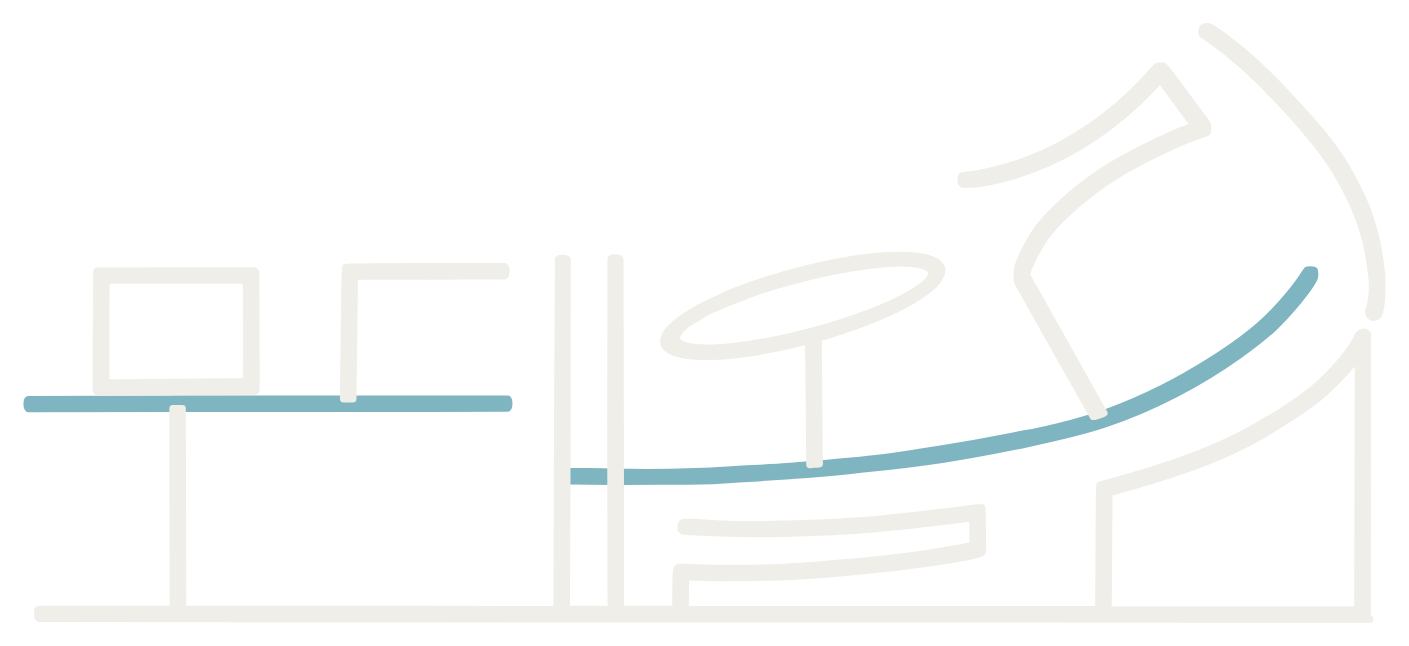
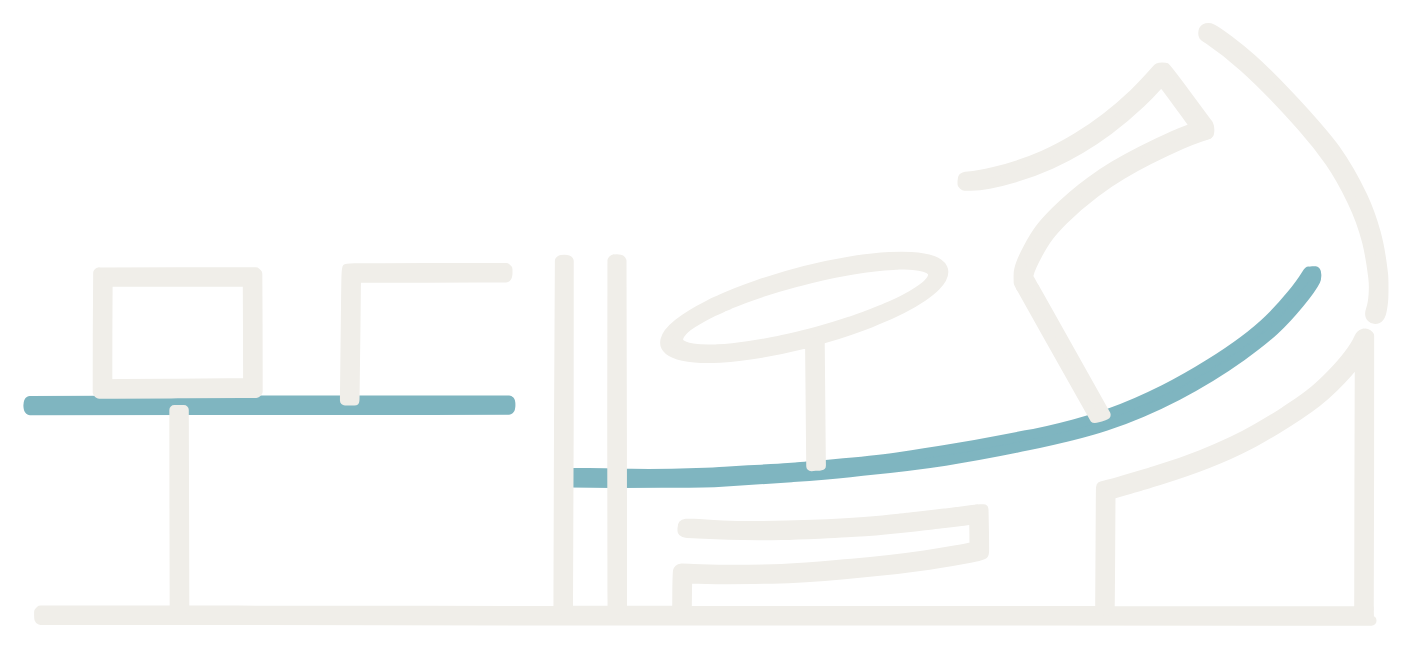
무대올림 로고 획을 20으로 — 실사용 17·20 비교 후 사장님 결정
wm-muol-v4.png를 획 10 → 20px(1400폭 기준) 판으로 바꾼다. 형태·배색·투명도(0.8)는 그대로.

diff --git a/src/app/page.tsx b/src/app/page.tsx
@@ -9,7 +9,7 @@ import LegalStrip from "@/components/LegalStrip";
  *   - 시우스   = 밝은 화이트톤 + SYUS 붓터치색 유지, 뒷배경에 Afterimage 사진 워터마크
  *   - 지붕 배지 밑 흰색 슬로건이 안 보이던 문제 → 슬로건 제거(배지에 로고+이름만)
  *   - "관람료 없이" 등 관객 대상 단언 문구 제외(학과가 관람료를 받을 여지)
- * 워터마크: /wm-muol-v4.png(한글 로고타입 + 확정 배색, 2026-10-28 획 10→17), /wm-syus-v3.png(알파 누끼 — 배경 무관).
+ * 워터마크: /wm-muol-v4.png(한글 로고타입 + 확정 배색, 2026-10-29 획 10→20), /wm-syus-v3.png(알파 누끼 — 배경 무관).
  *
  * 안전: 서버 컴포넌트 + CSS group-hover만(클라이언트 JS 0), 레이어 pointer-events:none. reduced-motion 존중.
  * metadata는 루트 layout.tsx(사유유사)가 제공.
@@ -209,9 +209,10 @@ export default function GatewayPage() {
              있어, 이미지 위치와 글자가 보이는 위치가 다르다는 점에 주의.
              60svh는 화면이 낮을 때만 작동하는 안전장치(1080p·1440p에선 760px 유지). */
           /* 2026-10-28 사장님: 로고 획을 키워 첫 시야에 먼저 들어오게.
-             v4 = v3과 같은 SVG 원본에 같은 색 외곽선을 덧입혀 획만 10 → 17px(1400폭 기준) 굵힌 판.
-             20부터는 「대」의 두 기둥·「올」의 ㄹ 안쪽 틈이 좁아져 17에서 멈췄다.
-             원본: Content_Report/output/design/갈림길_무대올림_최종후보_2026-10-28/시공재료/wm-muol-t17.svg */
+             v4 = v3과 같은 SVG 원본에 같은 색 외곽선을 덧입혀 획만 10 → 20px(1400폭 기준) 굵힌 판.
+             디자인팀 권장은 17(20부터 「대」의 두 기둥·「올」의 ㄹ 안쪽 틈이 좁아진다)이었으나,
+             실사용 화면 17·20 비교 후 사장님이 존재감이 더 큰 20으로 결정(2026-10-29).
+             원본: Content_Report/output/design/갈림길_무대올림_최종후보_2026-10-28/시공재료/wm-muol-t20.svg */
           background: url('/wm-muol-v4.png') no-repeat center 28%;
           background-size: min(88%, 760px, 60svh) auto;
           opacity: 0.8; /* 2026-10-28: 0.55 → 0.8 (획 상향과 함께 사장님 지시). 아래는 0.55 때의 기록.
